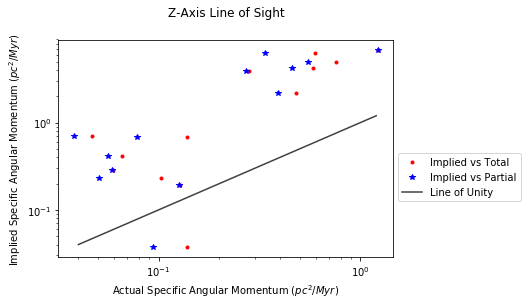
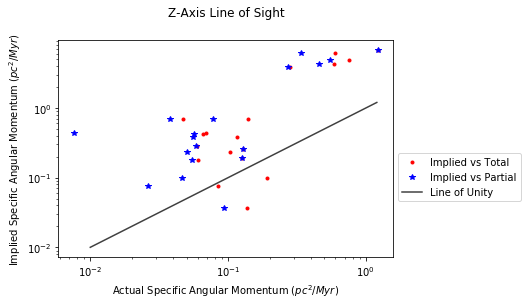
Apr 1 Updates

diff --git a/Assignment_5/0100/Clumping_yt_code_0100.py b/Assignment_5/0100/Clumping_yt_code_0100.py
@@ -68,7 +68,7 @@ for i in range(0,octant):   #Master Loop for Octants
 
     #Creating Master Clump, and Clump Parameters
     master_clump = Clump(dbox_array[i], ("gas", "density")) #Makes the first big clump
-    clump_sizing = 200  #Any Clump size smaller than this value get eliminated
+    clump_sizing = 100  #Any Clump size smaller than this value get eliminated
     
     #Validator is the minimum clump size:
     master_clump.add_validator("min_cells", clump_sizing)
@@ -169,18 +169,19 @@ for i in range(0,octant):   #Master Loop for Octants
         vz_positions_xy.append(vz_positions[-1,1])   #Last Column Value
         
         #For Creation of x-coords,y-coords
-        x_values = np.arange(1,(vz_positions_xy[1]-vz_positions_xy[0]+2))
-        y_values = np.arange(1,(vz_positions_xy[3]-vz_positions_xy[2]+2))
+        vz_x_values = np.arange(1,(vz_positions_xy[1]-vz_positions_xy[0]+2))
+        vz_y_values = np.arange(1,(vz_positions_xy[3]-vz_positions_xy[2]+2))
         
-        yy, xx = np.meshgrid(x_values, y_values)
+        vz_yy, vz_xx = np.meshgrid(vz_x_values, vz_y_values)
         
-        vz_px = np.array(xx)
-        vz_py = np.array(yy)
+        vz_px = np.array(vz_xx)
+        vz_py = np.array(vz_yy)
         
         #Extracts the data into a new numpy array for plane fitting
         vz_arr_red = vz_arr[vz_positions_xy[0]:vz_positions_xy[1]+1,vz_positions_xy[2]:vz_positions_xy[3]+1]
         
         '''
+        #Old Method using positions values from vz, didnt work.
         #Extracts the x-position values from 'px'
         x_values = np.array(vz['px'])
         x_values = np.reshape(x_values,(256,256))
@@ -214,8 +215,7 @@ for i in range(0,octant):   #Master Loop for Octants
         
         beta=1
         angular_momentum_vz_implied_specific = beta * gradient_z * dist_x * dist_y
-        
-        
+   
         #Integration on line of sight
         angular_momentum_actual_x = dbox_clump.sum('angular_momentum_x')
         angular_momentum_actual_y = dbox_clump.sum('angular_momentum_y') 
